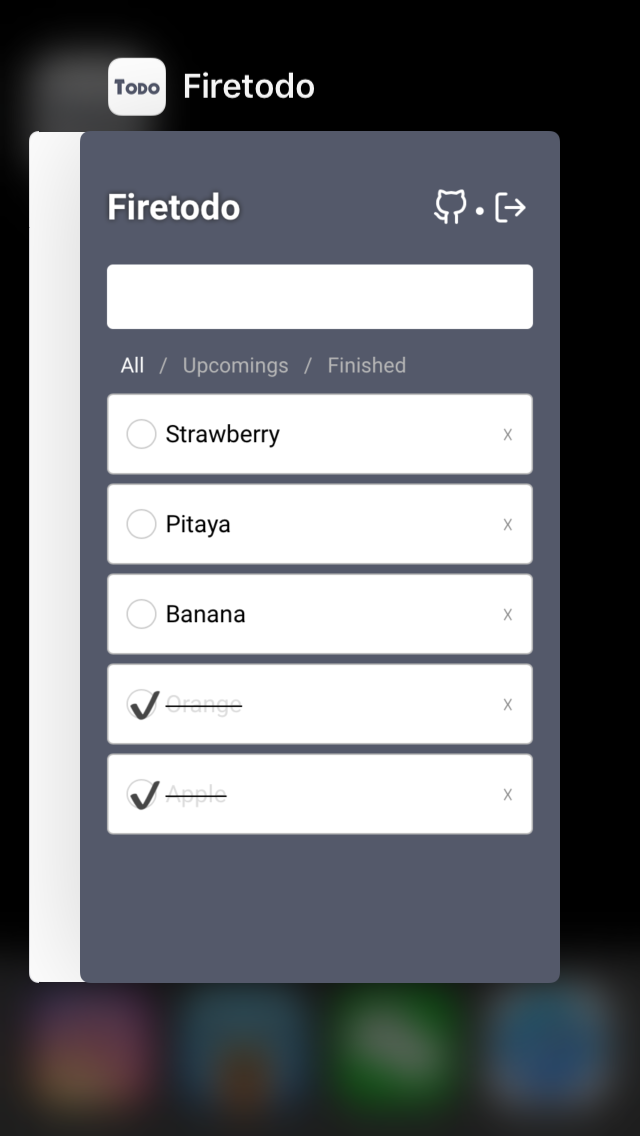
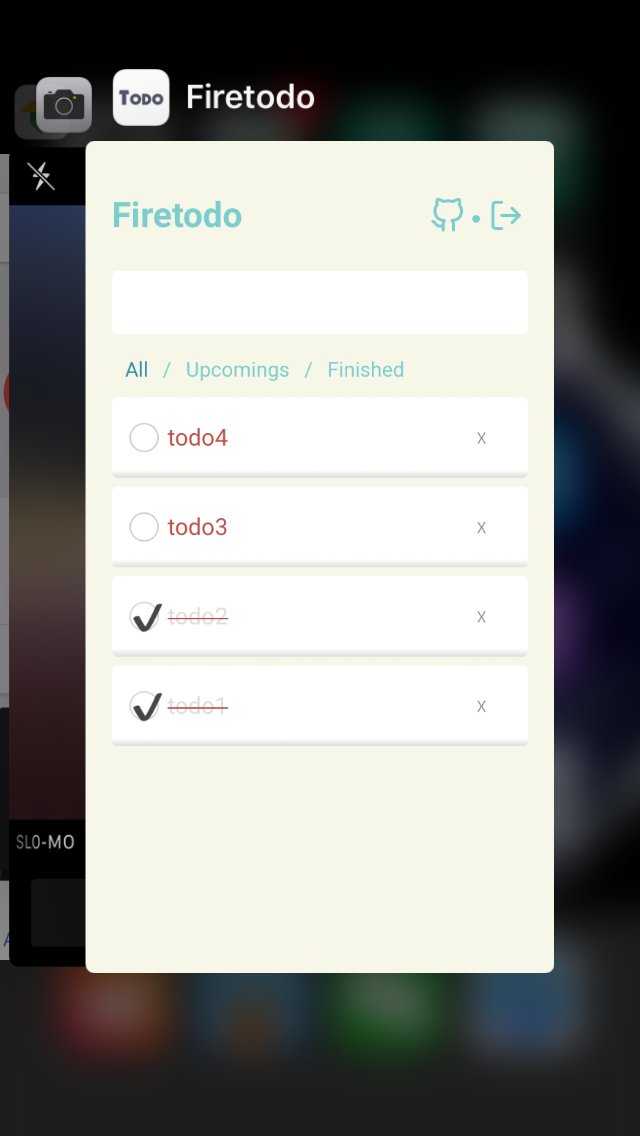
update link and screenshot

diff --git a/readme.md b/readme.md
@@ -1,6 +1,6 @@
 # Firetodo 
 
-Firebase based todo app example. Try the demo [here](https://react-firetodo.firebaseapp.com/).
+Firebase based todo app example. Try the demo [here](https://fire-todoapp.firebaseapp.com/).
 
 ## Features
 
